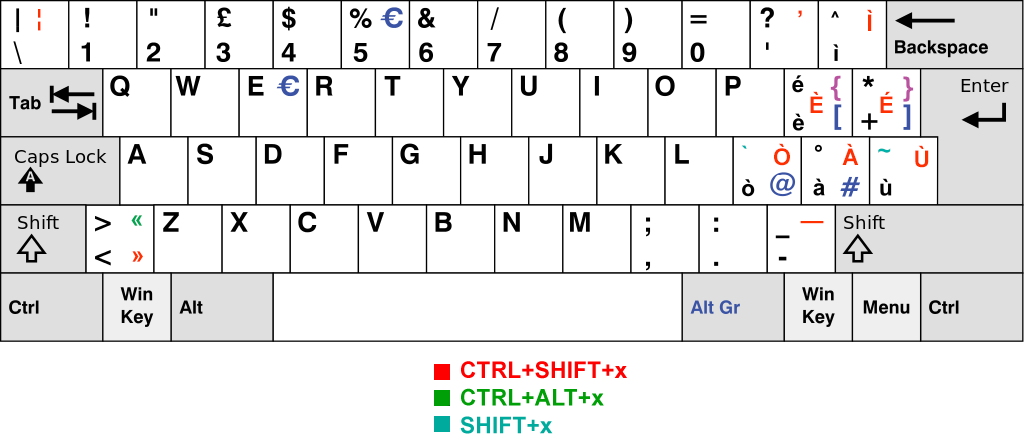
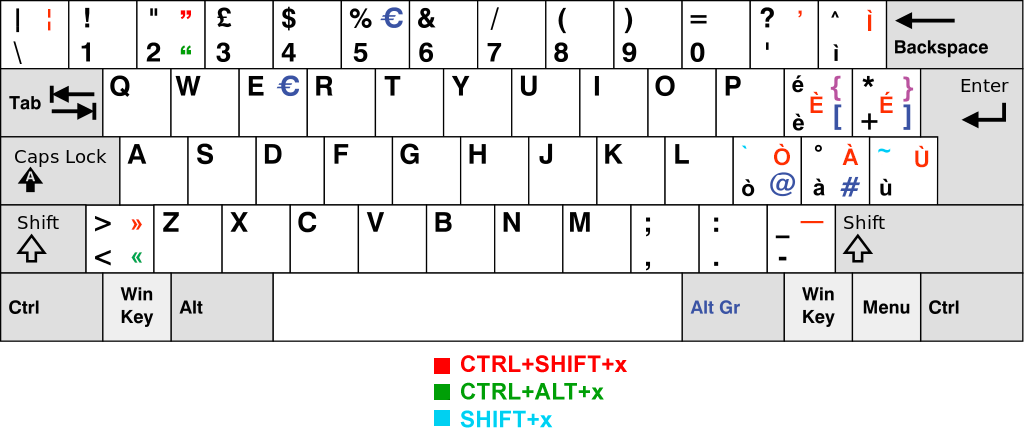
Aggiunta di virgolette alte

diff --git a/README.md b/README.md
@@ -1,36 +1,39 @@
-
-# Caratteri extra per tastiera italiana con AutoHotKey
+# Caratteri Extra per Tastiera Italiana con AutoHotKey
 
 <img src="https://github.com/ewilio/autohotkey-tastiera-italiana/blob/master/extrakeys-ita.png" alt="Anteprima" width="80%"/>
 
 Lo script aggiunge combinazioni di tasti rapidi per digitare le vocali accentate maiuscole usate in Italiano ``À È É Ì Ò Ù``.
 
-Chi programma sa quanto sia di gran lunga migliore il layout di tastiera US o US-International, per questo ho sostituito i tasti di paragrafo tipografico ``§`` e la c con cediglia ``ç``, che non credo siano molto usati, con tilde ``~`` e backtick `` ` `` rispettivamente. 
+Chi programma sa quanto sia di gran lunga migliore il layout di tastiera US o US-International, per questo ho sostituito i tasti di paragrafo tipografico ``§`` e la c con cediglia ``ç``, che non credo siano molto usati, con tilde ``~`` e backtick `` ` `` rispettivamente.
 
-Altri caratteri tipografici che possono essere utili sono l'apostrofo ``’``, le virgolette basse doppie ``« »``, la linetta emme ``—`` e la barra verticale (pipe) spezzata ``¦``.
+Altri caratteri tipografici che possono essere utili sono l'apostrofo ``’``, le virgolette basse doppie ``« »``, le virgolette alte doppie ``“ ”``, la lineetta emme ``—`` e la barra verticale (pipe) spezzata ``¦``.
 
 Ho cercato di usare i tasti non standard per non avere conflitti con altre combinazioni di tasti usati da altri programmi.
 
-## Perché AutoHotKey e non un layout tastiera dedicato?
-AutoHotKey consente di usare altri script molto utili per automatizzare molte operazioni (disponibili su https://www.autohotkey.com/boards/), occupa pochissima memoria nel sistema e se si volesse tornare alle impostazioni di default basta disattivare AutoHotKey o rimuovere lo script.
+## Perché AutoHotKey e non un layout tastiera dedicato
+
+AutoHotKey consente di creare e utilizzare script per automatizzare molte operazioni (disponibili su https://www.autohotkey.com/boards/), occupa pochissima memoria nel sistema e se si volesse tornare alle impostazioni predefinite basta disattivare AutoHotKey o rimuovere il file.
+Per chi volesse invece utilizzare un layout tastiera dedicato consiglio: https://github.com/kolmogorov42/maiuscole-accentate
 
 ## Combinazioni di tasti
 
-| Tasti | Risultato | Note |
-| - | - |-|
-|  `§` | `~` | tilde |
-|  `ç` | `` ` `` | accento grave (backtick) |
-| `CTRL` + `SHIFT` + `à` | `À` | A maiuscola con accento grave |
-| `CTRL` + `SHIFT` + `è` | `È` | E maiuscola con accento grave |
-| `CTRL` + `SHIFT` + `+` | `É` | E maiuscola con accento acuto |
-| `CTRL` + `SHIFT` + `ì` | `Ì` | I maiuscola con accento grave |
-| `CTRL` + `SHIFT` + `ò` | `Ò` | O maiuscola con accento grave |
-| `CTRL` + `SHIFT` + `ù` | `Ù` | U maiuscola con accento grave |
-| `CTRL` + `SHIFT` + `'`| `’`| apostrofo |
-| `CTRL` + `ALT` + `<`| `«` | virgolette basse doppie di apertura |
-| `CTRL` + `SHIFT` + `<`| `»` | virgolette basse doppie di chiusura |
-| `CTRL` + `SHIFT` + `` \|`` | `¦` | barra vertical spezzata |
-| `CTRL` + `SHIFT` + `-`| `—` | lineetta emme (em dash) |
+| Tasti                     | Risultato | Note                                |
+| ------------------------- | --------- | ----------------------------------- |
+| `§` / `SHIFT` + `ù`       | `~`       | tilde                               |
+| `ç` / `SHIFT` + `ò`       | `` ` ``   | accento grave (backtick)            |
+| `CTRL` + `SHIFT` + `à`    | `À`       | A maiuscola con accento grave       |
+| `CTRL` + `SHIFT` + `è`    | `È`       | E maiuscola con accento grave       |
+| `CTRL` + `SHIFT` + `+`    | `É`       | E maiuscola con accento acuto       |
+| `CTRL` + `SHIFT` + `ì`    | `Ì`       | I maiuscola con accento grave       |
+| `CTRL` + `SHIFT` + `ò`    | `Ò`       | O maiuscola con accento grave       |
+| `CTRL` + `SHIFT` + `ù`    | `Ù`       | U maiuscola con accento grave       |
+| `CTRL` + `SHIFT` + `'`    | `’`       | apostrofo                           |
+| `CTRL` + `ALT` + `<`      | `«`       | virgolette basse doppie di apertura |
+| `CTRL` + `SHIFT` + `<`    | `»`       | virgolette basse doppie di chiusura |
+| `CTRL` + `ALT` + `2`      | `“`       | virgolette alte doppie di apertura  |
+| `CTRL` + `SHIFT` + `2`    | `”`       | virgolette alte doppie di chiusura  |
+| `CTRL` + `SHIFT` + `-`    | `—`       | lineetta emme (em dash)             |
+| `CTRL` + `SHIFT` + ``\|`` | `¦`       | barra verticale spezzata            |
 
 ## Installazione
 
@@ -38,7 +41,7 @@ AutoHotKey consente di usare altri script molto utili per automatizzare molte op
 
 2. Scaricare lo ZIP dell'ultima versione dello script: https://github.com/ewilio/autohotkey-tastiera-italiana/releases
 
-3. Premere Start, digitare "Esegui" (o WIN+R) e digitare `shell:startup`.
+3. Premere Start, digitare "Esegui" (o `WIN+R`) e digitare `shell:startup`.
 
 4. Estrarre il file `extrakeys-ita.ahk` dentro la cartella. Il file verrà eseguito ad ogni nuovo avvio.
 
@@ -46,7 +49,7 @@ AutoHotKey consente di usare altri script molto utili per automatizzare molte op
 
 ## Disinstallazione
 
-1. Premere Start, digitare "Esegui" (o WIN+R) e digitare `shell:startup`.
+1. Premere Start, digitare "Esegui" (o `WIN+R`) e digitare `shell:startup`.
 
 2. Eliminare il file `extrakeys-ita.ahk`.
 
